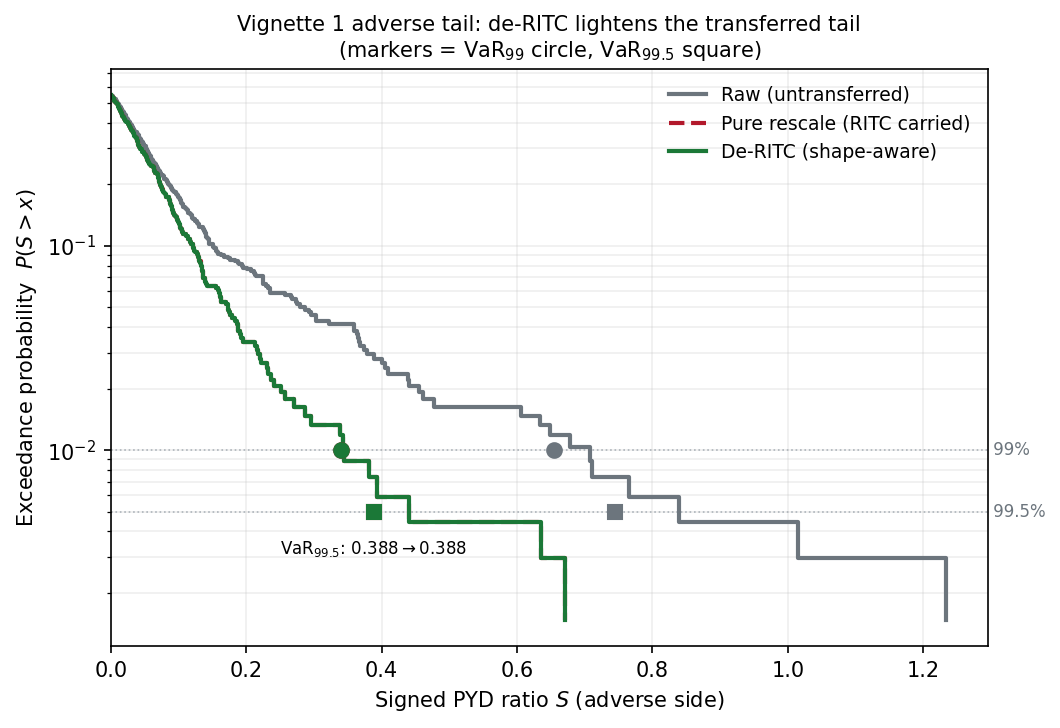
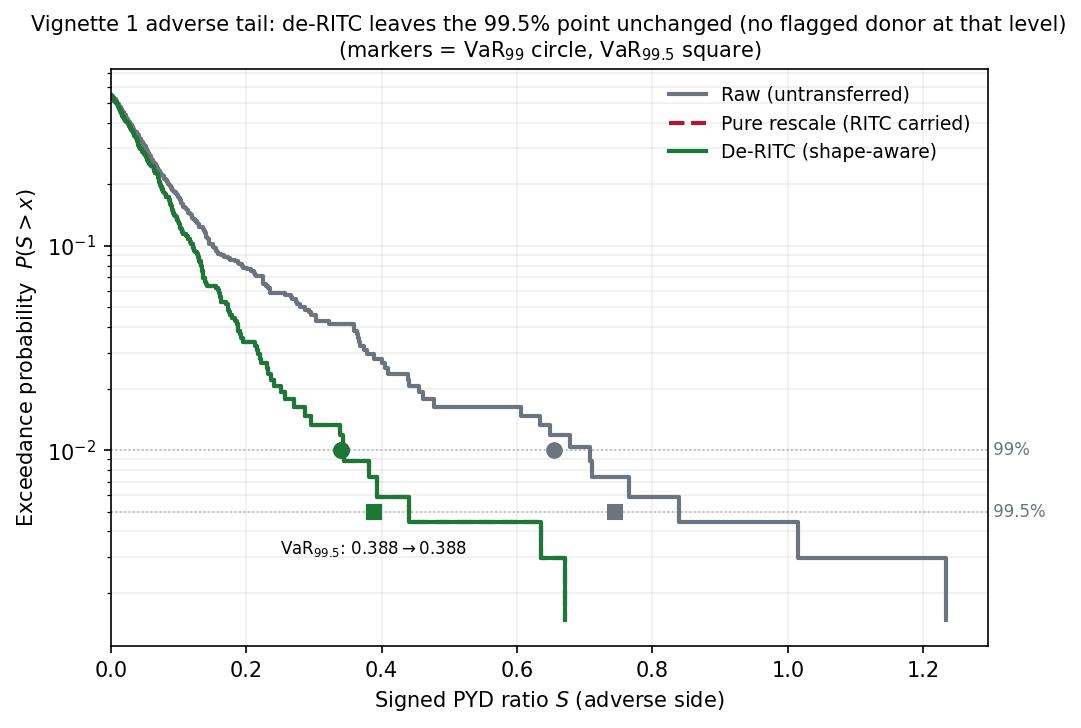
The survivor figure's title states what the figure shows (the RITC step can be zero), and the provenance note's no-extraction count is the audit's
make_v1_ritc_survivor.py read "de-RITC lightens the transferred tail" into its
title regardless of the data; at this fit no flagged donor reaches the 99.5%
level and the step is zero, so the title is now chosen from the computed step.
docs/data-provenance.md said 135 filings carried no usable extraction where the
generated audit counts 133.

diff --git a/src/make_v1_ritc_survivor.py b/src/make_v1_ritc_survivor.py
@@ -80,8 +80,13 @@ def main():
     ax.set_xlim(left=0)
     ax.set_xlabel("Signed PYD ratio $S$ (adverse side)")
     ax.set_ylabel("Exceedance probability  $P(S > x)$")
-    ax.set_title("Vignette 1 adverse tail: de-RITC lightens the transferred tail\n"
-                 "(markers = VaR$_{99}$ circle, VaR$_{99.5}$ square)", fontsize=10)
+    # the title states what the figure shows: the RITC step at the 99.5% point can be
+    # zero when no flagged donor reaches that level (round 54)
+    step = var_q(pure, 0.995) - var_q(deritc, 0.995)
+    headline = ("de-RITC lightens the transferred tail" if step > 5e-4
+                else "de-RITC leaves the 99.5% point unchanged (no flagged donor at that level)")
+    ax.set_title("Vignette 1 adverse tail: %s\n"
+                 "(markers = VaR$_{99}$ circle, VaR$_{99.5}$ square)" % headline, fontsize=10)
     ax.legend(loc="upper right", frameon=False, fontsize=9)
     ax.grid(True, which="both", alpha=0.2)
 

diff --git a/docs/data-provenance.md b/docs/data-provenance.md
@@ -46,7 +46,7 @@ After the pipeline's eligibility filters (`run_analysis.py`):
   (157 corpus records with a development figure on a net or unstated basis are excluded:
    114 net, 43 unstated; `data/pyd_basis_register.json`, `src/pyd_basis_rule.py`,
    `run_analysis.py`)
-  135 of the 1065 filings carry no usable dual-model extraction. That is a diagnostic
+  133 of the 1065 filings carry no usable dual-model extraction. That is a diagnostic
   of extraction quality and OVERLAPS the stages above; it is not a further subtraction,
   and treating it as one is what made an earlier version of this flow fail to add up.
 Corpus:          919 syndicate-years / 133 syndicates; 36 appear in all 11 years (2014-2024)
